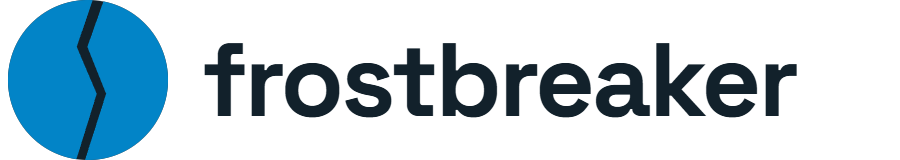
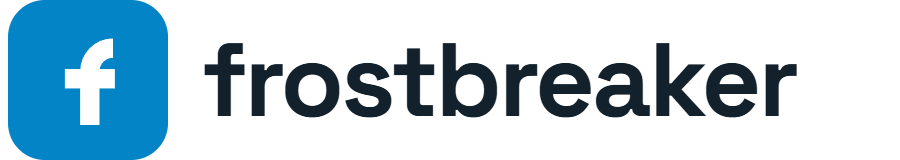
feat(marke): Zurueck zum f, aber als Zeichen statt als Platzhalter
Der Betreiber zieht das alte f der abstrakten Scheibe vor. Seine Marke,
seine Entscheidung -- der Einwand steht einmal in der LIESMICH und in der
SVG und wird nicht wiederholt: blaues Quadrat mit weissem Kleinbuchstaben
f ist nahe an Facebooks Symbol.

Das alte Zeichen war ein Platzhalter mit vier offenen Punkten, und die
sind jetzt zu:

- Der Buchstabe war ARIAL-TEXT, also von der Systemschrift abhaengig und
  auf jedem Geraet ein wenig anders. Jetzt ein Pfad.
- Das Blau war sky-500 (#0EA5E9), von vor dem Redesign vom 15.08. Jetzt
  #0284C7, dasselbe wie die Wortmarke.
- Der Eckenradius war zu klein: die Kreisbeschneidung von YouTube,
  LinkedIn und X schnitt die Ecken so an, dass ein ACHTECK uebrig blieb.
  Nachgesehen bei 88px. Mit rx 118 liegt die Rundung ausserhalb des
  einbeschriebenen Kreises und faellt sauber weg.
- Der Buchstabe sass unten rechts und hatte kaum Querbalken. Jetzt
  mittig und mit sichtbarem Querbalken -- das ist zugleich der Abstand zu
  Facebook, den die Form hergibt.

Gerendert und angesehen bei 120, 88, 48, 32 und 16 Pixeln, auf hellem und
dunklem Grund, eckig und rund. Traegt in allen zwanzig Kombinationen.

Ebenfalls gebaut und verworfen: ein f, dessen Querbalken versetzt ist,
als waere der Buchstabe gebrochen. Bei 48px nicht mehr als f zu lesen,
sondern als Blitz.

Die Scheibe bleibt als frostbreaker-marke-scheibe.svg liegen, samt ihrer
dunklen Fassung. Alle PNGs, das Banner, die Wortmarke und app/icon.svg
sind neu aus dem f erzeugt.

Changed region(s): [[0.0, 0.0, 0.1867, 1.0]]

diff --git a/marke/LIESMICH.md b/marke/LIESMICH.md
@@ -1,8 +1,7 @@
 # Frostbreaker — Bildmarke
 
-Eine Scheibe Eis, die gebrochen ist. Der Name sagt es wörtlich, das Produkt
-heißt Kaltakquise, und das Kernstück der App heißt Icebreaker — die Marke muss
-nichts übersetzen.
+Ein **f** im abgerundeten Quadrat. Das Zeichen, das vorher schon da war —
+neu ist nur die Ausführung.
 
 ## Welche Datei wofür
 
@@ -15,61 +14,69 @@ nichts übersetzen.
 | `frostbreaker-youtube-banner.png` | **YouTube-Kanalbanner**, 2048 × 1152 |
 | `frostbreaker-wortmarke-hell.png` | Marke plus Schriftzug, für **dunkle** Flächen. Transparenter Grund. |
 | `frostbreaker-wortmarke-dunkel.png` | Dasselbe für **helle** Flächen |
-| `frostbreaker-marke.svg` | Die Quelle. Beliebig skalierbar, für Druck und neue Größen. |
-| `frostbreaker-marke-dunkel.svg` | Zweitfassung: dunkle Scheibe, heller Bruch |
+| `frostbreaker-marke.svg` | Die Quelle. Beliebig skalierbar, für Druck und neue Größen. Liegt zusätzlich als `app/icon.svg` (Favicon der Website). |
+| `frostbreaker-marke-scheibe.svg` | **Alternative:** eine gebrochene Eisscheibe, abstrakt |
+| `frostbreaker-marke-dunkel.svg` | Die Scheibe in dunkel |
 
-Das Profilbild ist **randlos** — kein Rand, kein Abstand. YouTube, LinkedIn und
-X schneiden den Kreis selbst heraus; ein eingebauter Rand würde doppelt. Die
-Ecken außerhalb des Kreises sind **transparent**: bei der Kreisbeschneidung
+Die Ecken außerhalb des Kreises sind **transparent**: bei der Kreisbeschneidung
 macht das keinen Unterschied, aber wer die Datei eckig verwendet, bekommt kein
 weißes Kästchen auf dunklem Grund.
 
-`bauen.js` erzeugt alle PNGs aus der SVG. Es braucht ein lokal laufendes Chrome
-mit `--remote-debugging-port=9222` und `puppeteer-core`.
+## Was sich gegenüber dem alten Zeichen geändert hat
 
-## Warum blau und nicht dunkel
+Das alte war ein Platzhalter. Es funktionierte, aber vier Dinge waren offen:
 
-Beide Fassungen wurden gegeneinander gerendert, bei 150, 88, 48 und 32 Pixeln,
-auf weißem, grauem und schwarzem Grund. Die blaue Scheibe hält auf allen drei
-Gründen. Die dunkle ist auf Hell die schönere, löst sich auf Dunkel aber auf —
-übrig bleibt ein schwebender Blitz ohne Scheibe. YouTube hat einen hellen und
-einen dunklen Modus, also gewinnt die Fassung, die beides aushält.
+| | alt | jetzt |
+|---|---|---|
+| Buchstabe | **Arial-Text** — von der Systemschrift abhängig, auf jedem Gerät ein wenig anders | als Pfad gezeichnet, überall gleich |
+| Blau | `#0EA5E9` (sky-500), von vor dem Redesign | `#0284C7`, dasselbe wie die Wortmarke |
+| Ecken | kleiner Radius. Die Kreisbeschneidung schnitt sie so an, dass ein **Achteck** übrig blieb — nachgesehen bei 88 px | großer Radius, die Rundung fällt sauber weg |
+| Stellung | Buchstabe unten rechts, kaum Querbalken | mittig, sichtbarer Querbalken |
 
-Die dunkle liegt als Zweitfassung daneben. Nimm sie, wenn der Grund garantiert
-hell ist: Druck, Präsentationen, helle Briefköpfe.
+Gerendert und geprüft bei 120, 88, 48, 32 und 16 Pixeln, auf hellem und
+dunklem Grund, eckig und rund.
 
-## Was geprüft und verworfen wurde
+## Der Einwand, der bleibt
 
-- **Ein „f" als Monogramm.** Blauer Kreis plus weißer Kleinbuchstabe f ist
-  Facebook. Dazu las sich die Bruchlinie quer durch den Buchstaben als
-  Durchstreichung.
-- **Ein Eiskristall als Sechseck.** Ergab die beste Silhouette, sagte aber
-  „isometrische Kiste" statt „Eis" — und sah aus wie hundert andere
-  Technik-Logos.
+**Blaues Quadrat mit weißem Kleinbuchstaben f ist nahe an Facebooks Symbol.**
+Das war der Grund, warum diese Richtung zunächst verworfen wurde. Der Betreiber
+kennt den Einwand und hat sich bewusst dafür entschieden. Der Querbalken und
+die mittige Stellung sind der Abstand, den die Form hergibt — Facebooks f sitzt
+unten rechts und hat keinen sichtbaren Querbalken.
+
+Wer es sich anders überlegt: `frostbreaker-marke-scheibe.svg` liegt daneben.
+Eine gebrochene Eisscheibe — der Name sagt es wörtlich, das Produkt heißt
+Kaltakquise, das Kernstück der App heißt Icebreaker. Ohne
+Verwechslungsgefahr, dafür ohne Buchstaben.
+
+## Auch geprüft und verworfen
+
+- **Ein gebrochenes f**, bei dem der Querbalken versetzt ist. Bei 48 Pixeln
+  nicht mehr als „f" zu lesen, sondern als Blitz.
+- **Ein Eiskristall als Sechseck.** Beste Silhouette von allen, sagte aber
+  „isometrische Kiste" statt „Eis".
 - **Eine abgebrochene Scholle**, die zur Seite gerutscht ist. Bei 32 Pixeln als
   Tortendiagramm gelesen.
-- **Ein dünner Riss mit korallener Füllung.** Bei 32 Pixeln verlor er seine
-  Aussage und wurde zur Schnörkellinie. Koralle auf Blau ist außerdem heiß und
-  unruhig; auf dieser Marke ist Koralle nicht zu Hause.
 
 ## Farben
 
 | | |
 |---|---|
-| `#0284C7` | Die Scheibe. Dasselbe Blau wie die Wortmarke auf der Website — bewusst kein helleres, zwei Blautöne in einer Marke sind einer zu viel. |
-| `#12212B` | Der Bruch. Eis bei Nacht, kühler als der Textton der Website (`#1c1b19`), der ins Warme geht und als Fläche braunschwarz wirken würde. |
+| `#0284C7` | Das Blau der Website. Bewusst kein helleres — zwei Blautöne in einer Marke sind einer zu viel. |
+| `#FFFFFF` | Der Buchstabe |
 
-Der Spalt läuft zu: 36 Pixel oben, 28 unten. Ein Bruch öffnet sich dort, wo er
-beginnt. Bei 32 Pixeln sieht das niemand, bei 800 schon.
+## Neue Größen erzeugen
+
+`bauen.js` erzeugt alle PNGs aus `frostbreaker-marke.svg`. Es braucht ein lokal
+laufendes Chrome mit `--remote-debugging-port=9222` und `puppeteer-core`.
 
 ## Zwei Fallen, die beim Bauen zugeschnappt sind
 
 **Beim Bearbeiten von `bauen.js`:** das Skript streicht `width="512"` aus dem
 öffnenden `<svg>`-Tag, damit das Elternelement die Größe bestimmt. Wird dabei
-global gestrichen statt nur im Tag, trifft es auch das `<rect>`, das den Bruch
-färbt — ein Rechteck ohne Breite ist null Pixel groß und verschwindet. Der
-Bruch zeigte dann den weißen Seitengrund statt seiner eigenen Farbe. Am Bild
-kaum zu sehen, an den Pixelwerten sofort.
+global gestrichen statt nur im Tag, trifft es auch Kinder-Elemente mit
+denselben Maßen — die sind dann null Pixel groß und verschwinden. Am Bild kaum
+zu sehen, an den Pixelwerten sofort.
 
 **Beim Bearbeiten der SVG:** in den Kommentaren darf keine doppelte
 Bindestrichfolge stehen. XML verbietet sie innerhalb eines Kommentars, und ein
